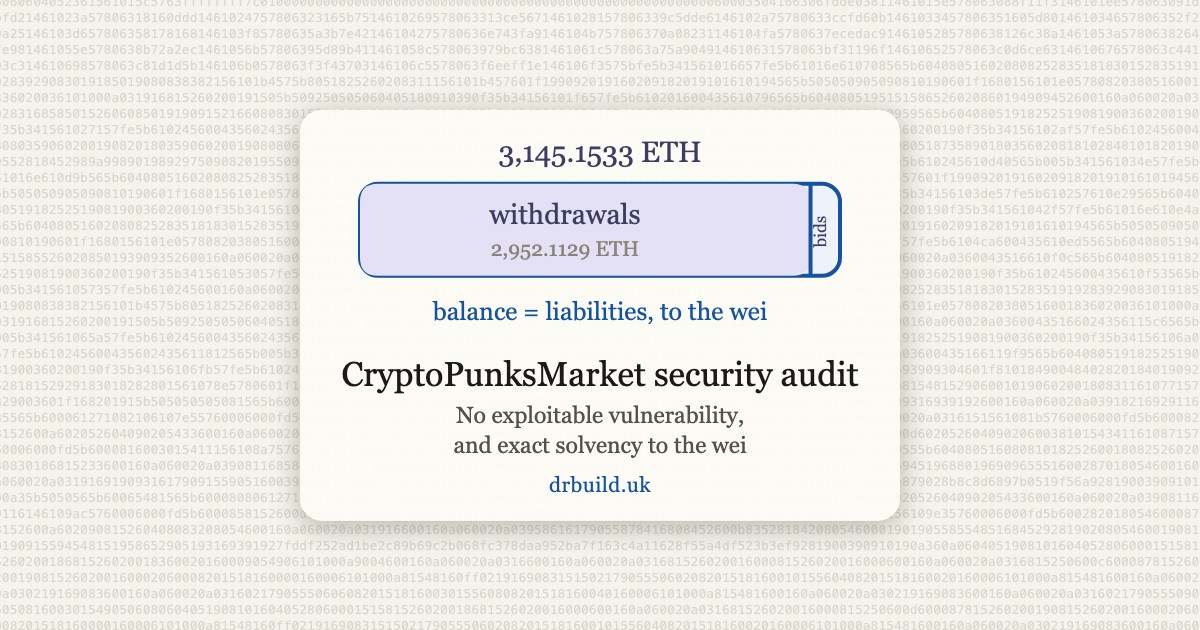
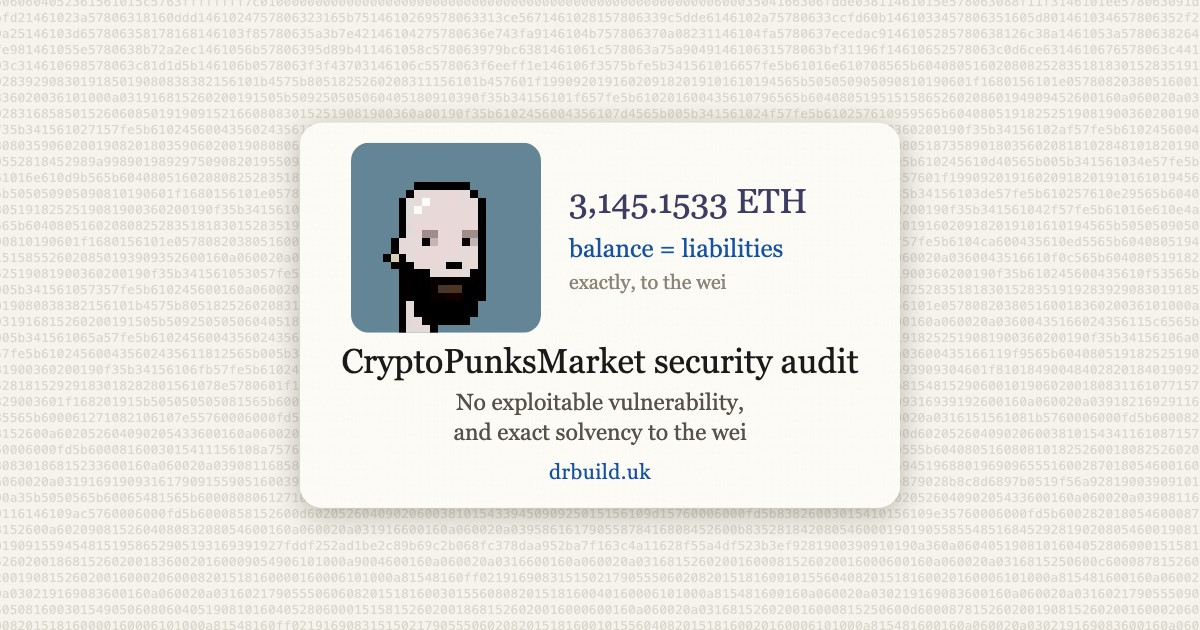
Finish Crypto Punks audit

Changed region(s): [[0.2467, 0.1508, 0.7708, 0.8444]]

diff --git a/audits/cryptopunks/index.html b/audits/cryptopunks/index.html
@@ -15,9 +15,9 @@
 <meta property="og:image" content="https://drbuild.uk/social/cryptopunks.jpg">
 <meta property="og:image:width" content="1200">
 <meta property="og:image:height" content="630">
-<meta property="og:image:alt" content="An original pixel-art punk beside CryptoPunksMarket's exact solvency result, over its deployed bytecode">
+<meta property="og:image:alt" content="A right-facing synthetic CryptoPunk with a beard and an earring beside CryptoPunksMarket's exact solvency result, over its deployed bytecode">
 <meta name="twitter:card" content="summary_large_image">
-<meta name="twitter:image:alt" content="An original pixel-art punk beside CryptoPunksMarket's exact solvency result, over its deployed bytecode">
+<meta name="twitter:image:alt" content="A right-facing synthetic CryptoPunk with a beard and an earring beside CryptoPunksMarket's exact solvency result, over its deployed bytecode">
 <meta name="twitter:creator" content="@davidryan59">
 <link rel="stylesheet" href="../../assets/site.css">
 <script src="../../assets/theme.js"></script>
@@ -39,9 +39,9 @@
 
 <a class="back" href="../../index.html">← David Ryan's builder page</a>
 
-<img class="paper-thumb punk-thumb" src="../../assets/cryptopunks-punk.png" width="132" height="132" alt="An original pixel-art punk with a teal mohawk and dark sunglasses">
+<img class="paper-thumb punk-thumb" src="../../assets/cryptopunks-punk.png" width="132" height="132" alt="A left-facing synthetic CryptoPunk with a beard and an earring">
 <h1>CryptoPunksMarket security audit</h1>
-<p class="tagline">Audit by David Ryan using Codex (GPT-5)<br>2026&#8209;10&#8209;28 against block 26,291,046<br>Contract on Ethereum mainnet: <a target="_blank" rel="noopener" href="https://etherscan.io/address/0xb47e3cd837dDF8e4c57F05d70Ab865de6e193BBB#code"><code>CryptoPunksMarket</code></a></p>
+<p class="tagline">Audit by David Ryan using Codex (GPT-5.6 Sol High)<br>2026&#8209;10&#8209;28 against block 26,291,046<br>Contract on Ethereum mainnet: <a target="_blank" rel="noopener" href="https://etherscan.io/address/0xb47e3cd837dDF8e4c57F05d70Ab865de6e193BBB#code"><code>CryptoPunksMarket</code></a></p>
 
 <p>
   CryptoPunksMarket is the immutable contract that records ownership and runs
@@ -59,7 +59,7 @@
 <div class="panel provenance">
   <h2>How this audit was made</h2>
   <p>
-    I commissioned this independent audit from Codex (GPT-5). It read the
+    I commissioned this independent audit from Codex. It read the
     deployed bytecode, the verified source and mainnet state at one pinned
     block. The report records the commands, evidence and limits so that its
     results can be checked.
@@ -99,28 +99,28 @@ at their own boundary.</p>
 <td class="id"><a href="#m-1--withdrawals-forward-only-2300-gas">M-1</a></td>
 <td><span class="sev sev-medium">Medium</span></td>
 <td>Withdrawals forward only 2300 gas</td>
-<td>Up to 3,145.133320691470851579 ETH, or $7,432,453.26</td>
+<td>Up to 3,145 ETH, ($7.4M)</td>
 </tr>
 <tr>
 <td class="id"><a
 href="#l-1--a-zero-address-transfer-can-strand-an-active-bid">L-1</a></td>
 <td><span class="sev sev-low">Low</span></td>
 <td>A zero-address transfer can strand an active bid</td>
-<td>0.02 ETH, or $47.26, is stranded now</td>
+<td>0.02 ETH ($47), is stranded now</td>
 </tr>
 <tr>
 <td class="id"><a
 href="#l-2--accepted-bid-events-record-zero-value-and-zero-buyer">L-2</a></td>
 <td><span class="sev sev-low">Low</span></td>
 <td>Accepted-bid events record zero value and zero buyer</td>
-<td>0 ETH, or $0, at risk; event data is wrong</td>
+<td>0 ETH, at risk; event data is wrong</td>
 </tr>
 <tr>
 <td class="id"><a
 href="#i-1--the-interface-is-erc-20-shaped-but-represents-unique-punks">I-1</a></td>
 <td><span class="sev sev-info">Info</span></td>
 <td>The interface is ERC-20-shaped but represents unique punks</td>
-<td>0 ETH, or $0, within this contract</td>
+<td>0 ETH, within this contract</td>
 </tr>
 <tr>
 <td class="id"><a
@@ -135,7 +135,7 @@ href="#i-3--the-initial-assignment-counter-could-underflow-before-finalisation">
 <td><span class="sev sev-info">Info</span></td>
 <td>The initial assignment counter could underflow before
 finalisation</td>
-<td>0 ETH, or $0, now; the path is dead</td>
+<td>0 ETH, now; the path is dead</td>
 </tr>
 </tbody>
 </table>
@@ -291,7 +291,7 @@ embargo.</p>
 <h3 id="m-1--withdrawals-forward-only-2300-gas">M-1 · Withdrawals
 forward only 2300 gas <span class="sev sev-medium">Medium</span></h3>
 <p><strong>Priced exposure.</strong> The known amount lost through this
-cause is 0 ETH, or $0. The gross balance that can pass through these
+cause is 0 ETH. The gross balance that can pass through these
 payout paths is 3,145.133320691470851579 ETH, or $7,432,453.26. This
 excludes the independently stranded 0.02 ETH bid in L-1.</p>
 <p><code>withdraw()</code> clears
@@ -368,7 +368,7 @@ id="i-1--the-interface-is-erc-20-shaped-but-represents-unique-punks">I-1
 · The interface is ERC-20-shaped but represents unique punks <span
 class="sev sev-info">Info</span></h3>
 <p><strong>Priced exposure.</strong> This causes no direct loss within
-the contract: 0 ETH, or $0. Downstream accounting can still be
+the contract: 0 ETH. Downstream accounting can still be
 wrong.</p>
 <p>The contract exposes <code>name</code>, <code>symbol</code>,
 <code>decimals</code>, <code>totalSupply</code>, <code>balanceOf</code>
@@ -410,7 +410,7 @@ value, so a mempool observer cannot lower the seller's settlement.</p>
 id="i-3--the-initial-assignment-counter-could-underflow-before-finalisation">I-3
 · The initial assignment counter could underflow before finalisation
 <span class="sev sev-info">Info</span></h3>
-<p><strong>Priced exposure.</strong> The live path exposes 0 ETH, or $0.
+<p><strong>Priced exposure.</strong> The live path exposes 0 ETH.
 Assignment is closed, and the owner cannot reach the affected
 subtraction.</p>
 <p>Before finalisation, <code>setInitialOwner</code> did not preserve

diff --git a/tools/social-cards/cards.html b/tools/social-cards/cards.html
@@ -47,7 +47,7 @@
   .audit .panel { width: 600px; padding: 20px 36px 24px; }
   .audit svg { display: block; margin: 0 auto 6px; }
   .punk-audit-visual { display: flex; align-items: center; justify-content: center; gap: 28px; margin: 0 auto 10px; }
-  .punk-audit-visual img { width: 190px; height: 190px; image-rendering: pixelated; background: #b8c6d1; border-radius: 18px; }
+  .punk-audit-visual img { width: 190px; height: 190px; image-rendering: pixelated; background: #638596; border-radius: 18px; }
   .punk-solvency { width: 280px; color: #3d3c63; text-align: left; }
   .punk-solvency strong { display: block; font-size: 34px; font-weight: normal; line-height: 1.1; }
   .punk-solvency span { display: block; margin-top: 12px; color: #1552a1; font-size: 25px; line-height: 1.2; }
@@ -196,7 +196,7 @@
         '<text x="222" y="200" text-anchor="middle" font-size="20" fill="' + LINE + '">code</text>' +
         box(10, 'ecrecover', '83%') + box(126, 'ERC-1271', '17%') + '</svg>';
     },
-    // An original pixel punk leads; the exact solvency result stays beside it.
+    // A synthetic punk built from the original 24 x 24 layer system leads.
     cryptopunks: function () {
       return '<div class="punk-audit-visual"><img src="/assets/cryptopunks-punk.png" alt="">' +
         '<div class="punk-solvency"><strong>3,145.1533 ETH</strong>' +

diff --git a/index.html b/index.html
@@ -185,7 +185,8 @@
   }
   .punk-thumb {
     image-rendering: pixelated;
-    background: light-dark(#b8c6d1, #394550);
+    background: #638596;
+    transform: scaleX(-1);
   }
   @media (max-width: 480px) {
     :root { --head: 88px; }
@@ -747,9 +748,9 @@
     </a>
     <a href="audits/cryptopunks/index.html">CryptoPunksMarket</a>
     – the immutable marketplace contract deployed in June 2017 for the 10,000 CryptoPunks.
-    At the review block it held 3,145.1533 ETH for pending withdrawals and active bids.
+    At the review block it held 3,145 ETH for pending withdrawals and active bids.
     <br><b>Summary</b>: no exploitable vulnerability, exact solvency to the wei,
-    one medium integration hazard, two low defects and three informational findings.
+    one medium integration hazard, two low defects.
   </li>
 </ul>
 

diff --git a/assets/site.css b/assets/site.css
@@ -86,7 +86,8 @@ li:last-child { margin-bottom: 0; }
 }
 .paper-thumb.punk-thumb {
   image-rendering: pixelated;
-  background: light-dark(#b8c6d1, #394550);
+  background: #638596;
+  transform: scaleX(-1);
 }
 /* A 42-character address has no break opportunity of its own, so on a narrow
    screen it sets the page's minimum width and pushes every paragraph past the

diff --git a/tools/thumbnails/README.md b/tools/thumbnails/README.md
@@ -24,7 +24,7 @@ it, then check the result with `frames.js`.
 | `assets/thumbs/sonic-asteroids.svg` | `sonic-asteroids.js` | Sonic fires rings at a Mario head, which bursts into two Luigis, on a 6 s loop |
 | `assets/thumbs/highlight-buffs.svg` | `highlight-buffs.js` | A still: the plugin's seven ring colours round planets on a Dark Forest map |
 | `assets/thumbs/weth9.svg`, `uniswap-v2.svg`, `dai.svg`, `permit2.svg` | `audits.js` | Stills of the diagrams on each audit's social card in `tools/social-cards/cards.html`, cut down to what reads at 120 px: ETH and WETH with arrows, the x·y=k curve, the price band round $1, and signers split 83% and 17% |
-| `assets/cryptopunks-punk.png` | Generated, then reduced to a 24 × 24 source image | An original pixel-art punk with a teal mohawk, sunglasses and a leather collar. The builder page and CryptoPunksMarket sharing card both use it |
+| `assets/cryptopunks-punk.png` | Composed at 24 × 24 from the original layer system, using the [CC0 clean-room layer set](https://github.com/cryptopunksnotdead/punks.whitelabel) | A synthetic Male 4 punk with Luxurious Beard and Earring. This combination does not occur in the original 10,000. The page and builder thumbnail mirror it to face left. The sharing card keeps it facing right |
 | `assets/thumbs/salary-loan.svg` | `salary-loan.js` | A still: a risk scale for loan-to-value, green on the left where low is safe, amber, then red where liquidation starts at 80%. A marker sits at 25%. It is the diagram on the guide's social card |
 | `assets/thumbs/polygonal-spectre.svg` | `polygonal-spectre.js` | A still of the paper's default tile, p = 29/50 and h = 13/50, with the plain Spectre dashed beneath. Built as in `papers/verify-polygonal-spectre.py` |
 | `assets/thumbs/undecanope.svg` | `undecanope.js` | A still of the Undecanope for its paper, in the view and shading of the explorer's thumbnail at its first frame, on the Polygonal Spectre still's paper colour |

diff --git a/docs/inventory.md b/docs/inventory.md
@@ -155,9 +155,10 @@ An independent review of the immutable marketplace contract deployed in June
 2017 for the 10,000 CryptoPunks. The audit found no exploitable vulnerability
 and reconciled its 3,145.153320691470851579 ETH balance to its liabilities,
 exactly to the wei. It records one medium integration hazard, two low defects
-and three informational findings. The builder page entry uses an original
-24 × 24 pixel-art punk. The page uses `social/cryptopunks.jpg` as its share
-card.
+and three informational findings. The builder page entry uses a synthetic
+24 × 24 punk composed from the original layer system. Its trait combination
+does not occur in the original 10,000. The page uses
+`social/cryptopunks.jpg` as its share card.
 
 | Item | Link | Status |
 |---|---|---|
